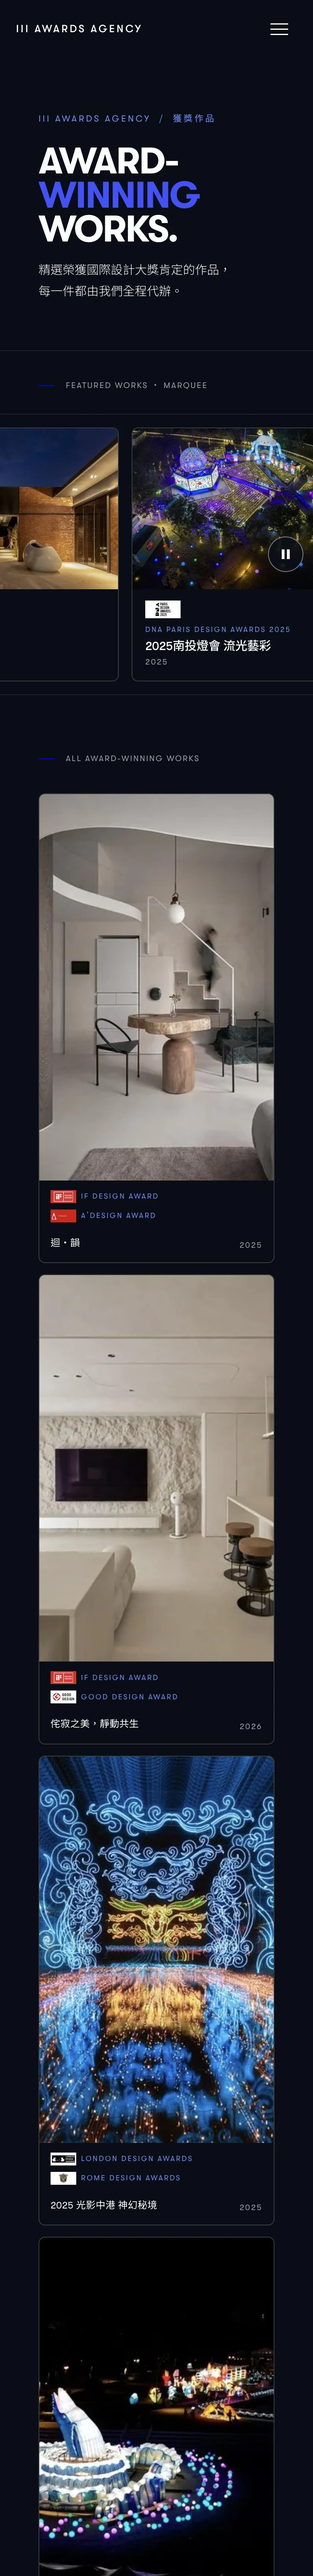
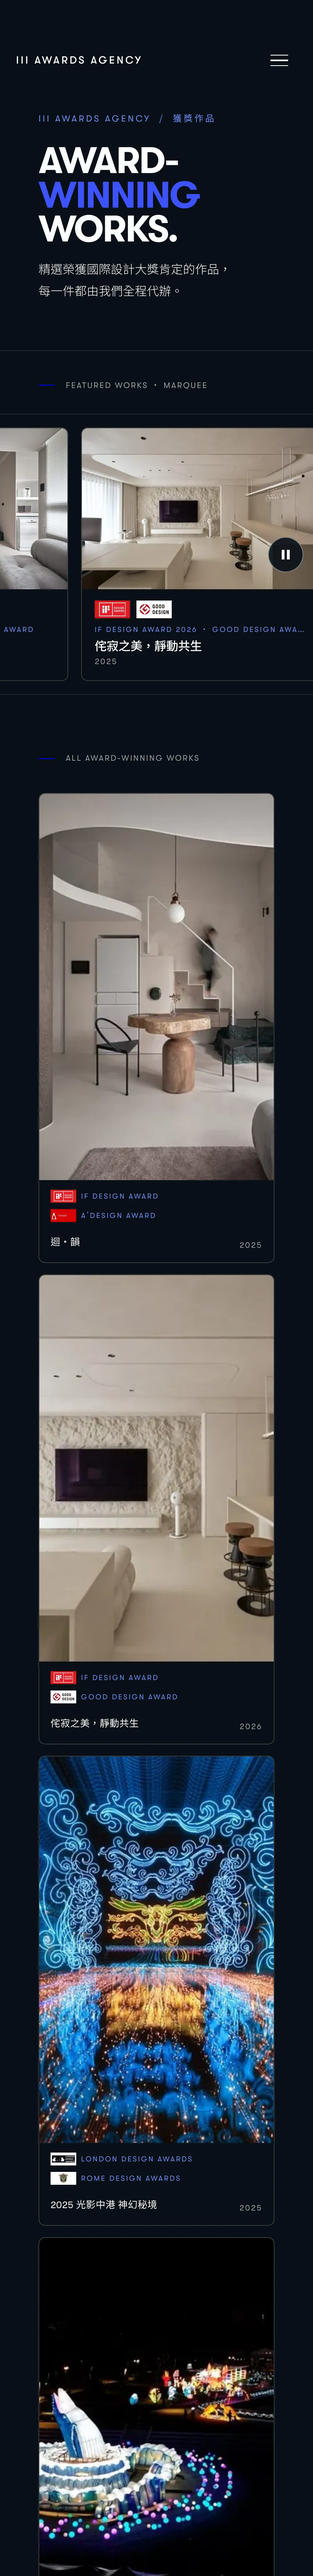
III Awards 05／07 改用上線網站截圖，補足被裁切的色票與對比表
05 介面設計與設計系統
- 四頁桌機與四頁手機全部重新截自 iiiawardsagency.github.io。
  用 CDP 的 captureBeyondViewport 抓全頁：站上 hero 是 100vh，
  靠加大 viewport 抓全頁會讓版面整個跑掉。
  截圖前先捲完整頁觸發 GSAP ScrollTrigger，再關掉它並清掉 inline style，
  否則捲回頂端時卡片會被反向播放成全透明，截出來一片黑。
  獎項介紹頁桌機 11973px、手機 31536px，依原本比例取上半部。
- 色票與對比檢查表補留白。兩張在 Figma 裡文字貼齊 frame 邊緣（x=0），
  匯出沒有留白，「KURO」與左欄文字看起來像被切掉。

07 互動與原型
- 服務流程五步驟換成線上版截圖，第二步已由「策略規劃」改為「簽約、付款」。

驗證
- 六頁 × 1440／1180／900／375 四個寬度：無橫向捲動、無圖片變形、無缺圖。

diff --git a/case-iii-awards.html b/case-iii-awards.html
@@ -166,10 +166,10 @@
       <p class="case-img-caption">品牌識別 — 波浪圖形與純藍強調色</p>
 
       <div class="case-img-grid cols-2">
-        <img loading="lazy" decoding="async" width="1540" height="3892" src="assets/images/III Awards Agency/首頁截圖.webp" alt="首頁，深色星空背景與服務卡片" class="case-img">
-        <img loading="lazy" decoding="async" width="1435" height="4179" src="assets/images/III Awards Agency/獎項介紹截圖.webp" alt="獎項介紹頁，獎項卡片與篩選列" class="case-img">
-        <img loading="lazy" decoding="async" width="1212" height="4949" src="assets/images/III Awards Agency/獲獎作品截圖.webp" alt="獲獎作品頁，作品卡片與得獎標籤" class="case-img">
-        <img loading="lazy" decoding="async" width="2400" height="2289" src="assets/images/III Awards Agency/聯絡我們截圖.webp" alt="聯絡我們頁，表單與常見問題" class="case-img">
+        <img loading="lazy" decoding="async" width="1540" height="3893" src="assets/images/III Awards Agency/figma/iii-awards-home-desktop.webp" alt="首頁，深色星空背景、數據列與服務卡片" class="case-img">
+        <img loading="lazy" decoding="async" width="1540" height="3893" src="assets/images/III Awards Agency/figma/iii-awards-awards-desktop.webp" alt="獎項介紹頁，獎項卡片與篩選列" class="case-img">
+        <img loading="lazy" decoding="async" width="1540" height="3893" src="assets/images/III Awards Agency/figma/iii-awards-works-desktop.webp" alt="獲獎作品頁，作品卡片與得獎標籤" class="case-img">
+        <img loading="lazy" decoding="async" width="1540" height="1880" src="assets/images/III Awards Agency/figma/iii-awards-contact-desktop.webp" alt="聯絡我們頁，免費項目評估表單與常見問題" class="case-img">
       </div>
       <p class="case-img-caption">四頁各回答一個使用者問題</p>
 
@@ -178,19 +178,19 @@
       <p class="case-img-caption">依上線網站的 CSS 整理出的元件總表</p>
 
       <h3 class="case-subhead">Foundations</h3>
-      <img loading="lazy" decoding="async" width="2400" height="281" src="assets/images/III Awards Agency/figma/iii-awards-swatches.webp" alt="色票：KURO、SNOWY、MIDNIGHT、BLUE、BLUE-LIGHT、GREEN、GOLD 七色" class="case-img-full">
+      <img loading="lazy" decoding="async" width="2544" height="377" src="assets/images/III Awards Agency/figma/iii-awards-swatches.webp" alt="色票：KURO、SNOWY、MIDNIGHT、BLUE、BLUE-LIGHT、GREEN、GOLD 七色" class="case-img-full">
       <p class="case-img-caption">色票</p>
-      <img loading="lazy" decoding="async" width="2400" height="1481" src="assets/images/III Awards Agency/figma/iii-awards-contrast-audit.webp" alt="對比檢查表：每一組文字與背景的修正前後對比值與通過結果" class="case-img-full">
+      <img loading="lazy" decoding="async" width="2544" height="1593" src="assets/images/III Awards Agency/figma/iii-awards-contrast-audit.webp" alt="對比檢查表：每一組文字與背景的修正前後對比值與通過結果" class="case-img-full">
       <p class="case-img-caption">對比檢查表 — 以 KURO #080F17 為背景逐項量測</p>
       <img loading="lazy" decoding="async" width="2400" height="1803" src="assets/images/III Awards Agency/figma/iii-awards-material-resin.webp" alt="樹脂材質規範：靛藍與石墨兩種樹脂的色票、組成與對比數值" class="case-img-full">
       <p class="case-img-caption">樹脂材質 — 靛藍與石墨</p>
 
       <h3 class="case-subhead">手機版</h3>
       <div class="case-img-grid cols-2">
-        <img loading="lazy" decoding="async" width="780" height="6384" src="assets/images/III Awards Agency/figma/iii-awards-home-mobile.webp" alt="首頁手機版，Hero 與服務卡片" class="case-img">
+        <img loading="lazy" decoding="async" width="780" height="6400" src="assets/images/III Awards Agency/figma/iii-awards-home-mobile.webp" alt="首頁手機版，Hero、數據列與服務卡片" class="case-img">
         <img loading="lazy" decoding="async" width="780" height="6400" src="assets/images/III Awards Agency/figma/iii-awards-awards-mobile.webp" alt="獎項介紹頁手機版，篩選列與獎項卡片" class="case-img">
         <img loading="lazy" decoding="async" width="780" height="6400" src="assets/images/III Awards Agency/figma/iii-awards-works-mobile.webp" alt="獲獎作品頁手機版，作品卡片與得獎標籤" class="case-img">
-        <img loading="lazy" decoding="async" width="780" height="5146" src="assets/images/III Awards Agency/figma/iii-awards-contact-mobile.webp" alt="聯絡我們頁手機版，表單與固定送出列" class="case-img">
+        <img loading="lazy" decoding="async" width="780" height="5960" src="assets/images/III Awards Agency/figma/iii-awards-contact-mobile.webp" alt="聯絡我們頁手機版，表單與固定送出列" class="case-img">
       </div>
       <p class="case-img-caption">四頁的手機版</p>
 
@@ -247,7 +247,7 @@
       <img loading="lazy" decoding="async" width="2400" height="1378" src="assets/images/III Awards Agency/網站截圖首頁Hero.webp" alt="首頁 Hero，粒子動效組成的品牌波浪圖形" class="case-img-full">
       <p class="case-img-caption">Hero — 粒子動效呈現品牌波浪圖形</p>
 
-      <img loading="lazy" decoding="async" width="2400" height="1344" src="assets/images/III Awards Agency/網站截圖服務流程五步驟.webp" alt="服務流程五步驟：免費諮詢、策略規劃、文件製作、代為送件、獲獎後續" class="case-img-full">
+      <img loading="lazy" decoding="async" width="2400" height="856" src="assets/images/III Awards Agency/figma/iii-awards-process-steps.webp" alt="服務流程五步驟：免費諮詢、簽約付款、文件製作、代為送件、獲獎後續" class="case-img-full">
       <p class="case-img-caption">服務流程 — 五步驟</p>
 
       <p><strong>上線後迭代</strong>：原本每個區塊的結構都一樣，往下捲時節奏單一。我在首頁「服務實績 → 我們提供」和聯絡頁加入捲動連動動態：動態跟著捲動進度推進，往回捲會反向，讓上下兩段在交界處短暫同框。同時保留系統的「減少動態」設定，開啟時頁面以靜態呈現。</p>
